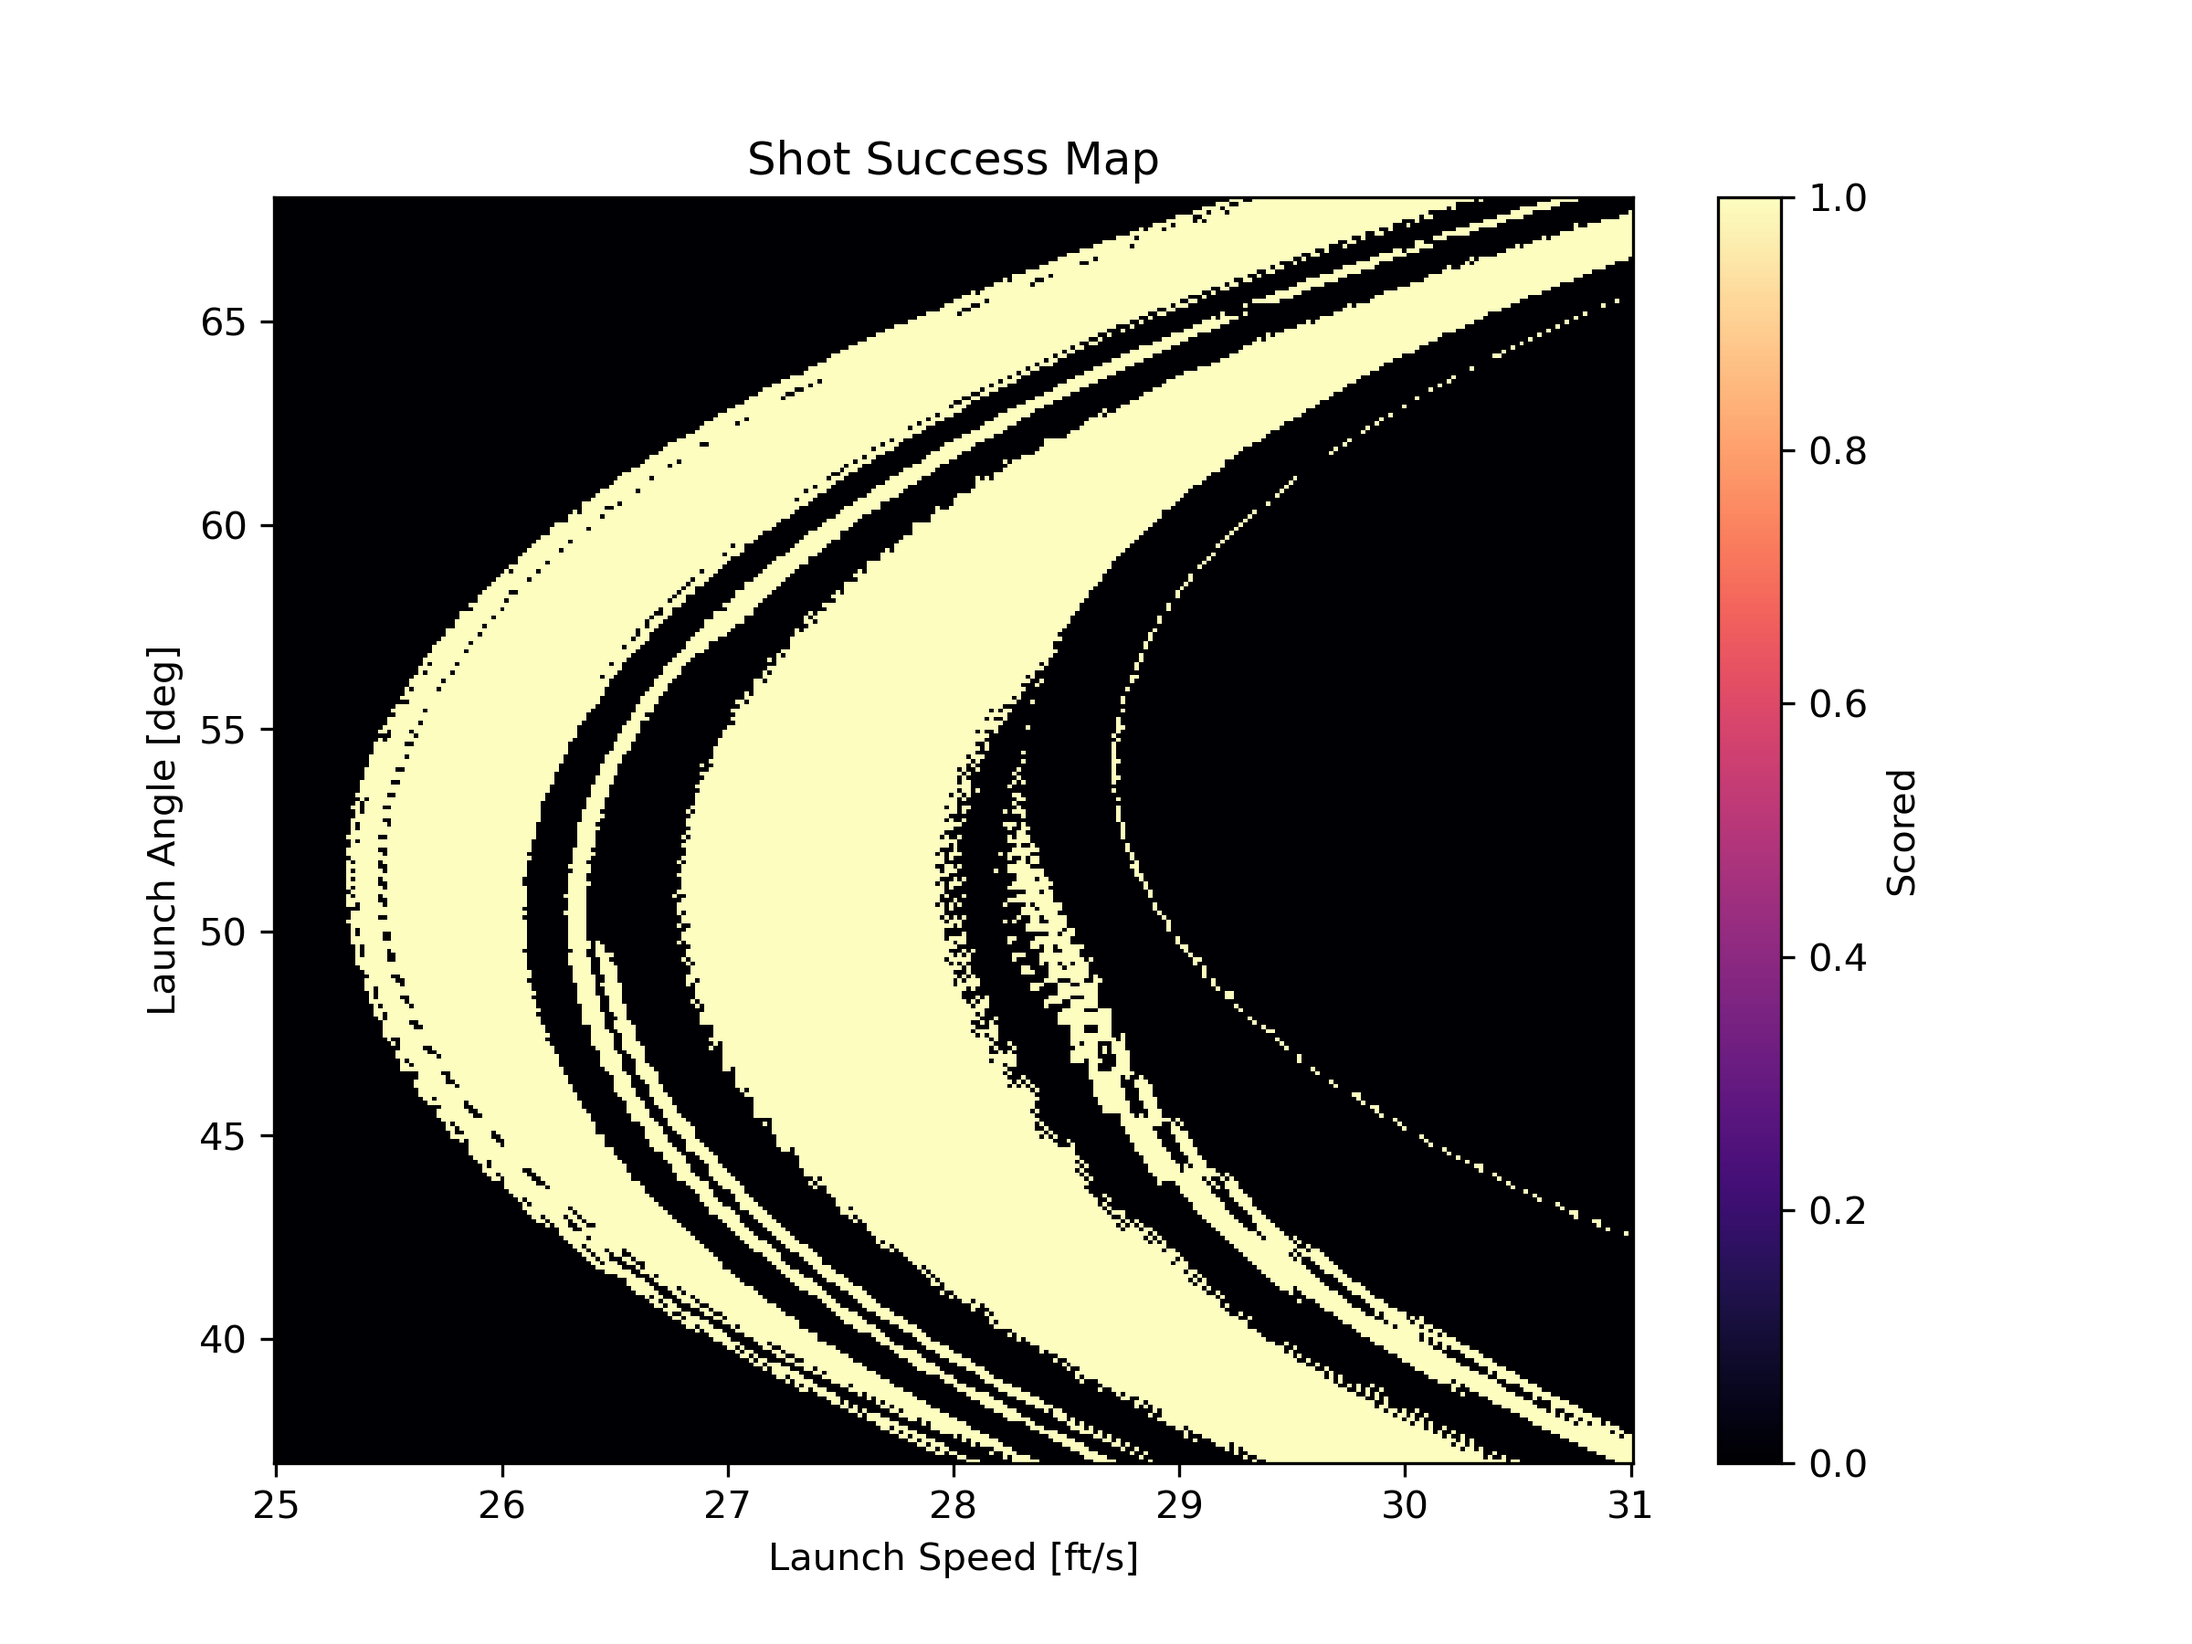
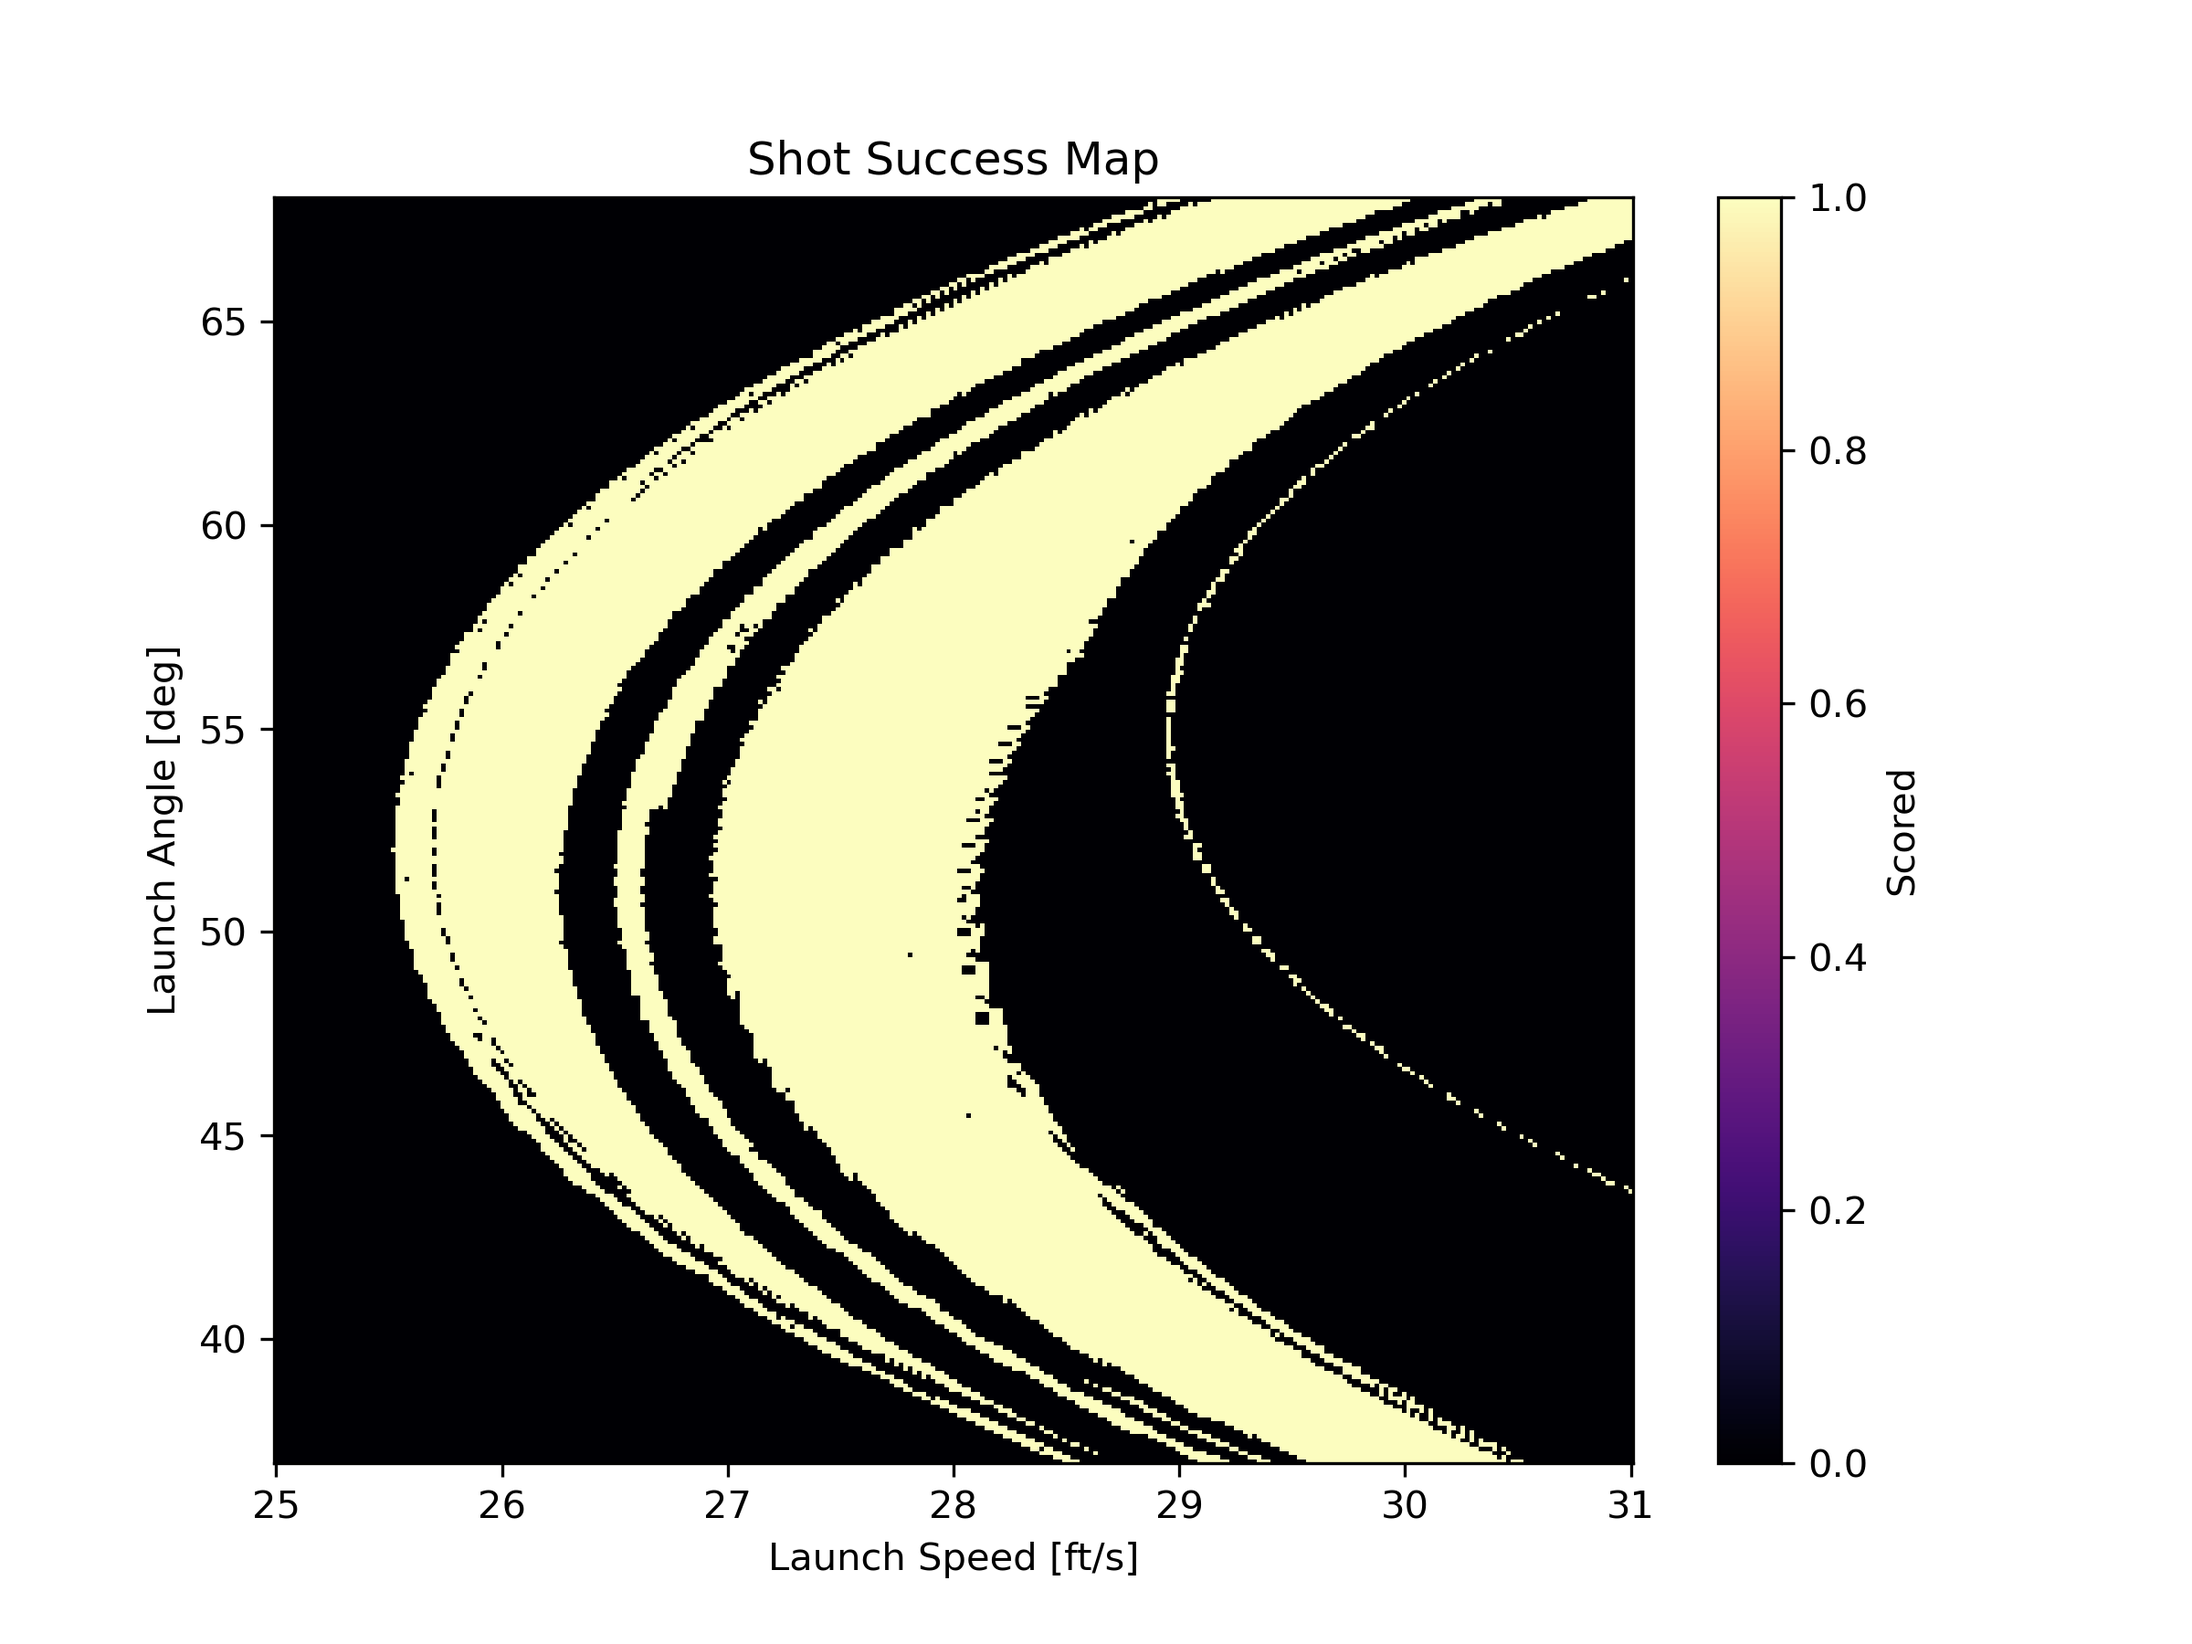
update plot and readme for better friction model

diff --git a/README.md b/README.md
@@ -62,23 +62,28 @@ python3 -m unittest discover tests
 The simulation computes the ball's trajectory by integrating the following forces:
 
 ### 1. Continuous Forces
-The total acceleration **a** is given by:
+The total acceleration $\mathbf{a}$ is given by:
 
 $$ \mathbf{a} = \mathbf{g}_{eff} + \frac{\mathbf{F}_d + \mathbf{F}_m}{m} $$
 
 *   **Gravity & Air Buoyancy**: $\mathbf{g}_{eff} = 0.985 \cdot \mathbf{g}$ (accounts for the upward buoyancy of the air).
-*   **Aerodynamic Drag**: $\mathbf{F}_d = -\frac{1}{2} C_D \rho A |\mathbf{v}| \mathbf{v}$
-    *   The drag coefficient $C_D$ transitions from 0.5 to 0.2 between $Re=10^5$ and $Re=2 \cdot 10^5$ (Drag Crisis).
-*   **Magnus Effect (Lift)**: $\mathbf{F}_m = \frac{1}{2} C_L \rho A R (\mathbf{\omega} \times \mathbf{v})$
-    *   $C_L$ is an affine function of the spin factor $Sp = \frac{\omega R}{|\mathbf{v}|}$.
+*   **Aerodynamic Drag**:
+$$ \mathbf{F}_d = -\frac{1}{2} C_D \rho A |\mathbf{v}| \mathbf{v} $$
+    The drag coefficient $C_D$ transitions from 0.5 to 0.2 between $Re=10^5$ and $Re=2 \cdot 10^5$ (Drag Crisis).
+*   **Magnus Effect (Lift)**:
+$$ \mathbf{F}_m = \frac{1}{2} C_L \rho A R (\mathbf{\omega} \times \mathbf{v}) $$
+    $C_L$ is an affine function of the spin factor $Sp = \frac{\omega R}{|\mathbf{v}|}$.
 
 ### 2. Collision Model
-Collisions are modeled as discrete impulse changes using **Velocity-Direction Masking**. A collision triggers only if the ball center is within the contact radius $R$ and moving into the surface ($\mathbf{v} \cdot \mathbf{n} < 0$).
+Collisions are modeled as discrete impulse changes using **Velocity-Direction Masking**. A collision triggers only if the ball center is within the contact radius $R$ and moving into the surface ($\mathbf{v}_{cm} \cdot \mathbf{n} < 0$).
 
 #### Impulse Components:
-*   **Normal Reflection**: $\Delta \mathbf{v}_n = -(1 + e) (\mathbf{v} \cdot \mathbf{n}) \mathbf{n}$
-*   **Tangential Friction**: $\Delta \mathbf{v}_t = -\min(\mu_f |\Delta \mathbf{v}_n|, |\mathbf{v}_{t,pt}|) \frac{\mathbf{v}_{t,pt}}{|\mathbf{v}_{t,pt}|}$
-    *   $\mathbf{v}_{t,pt}$ is the tangential velocity of the ball's **surface** at the contact point, including spin: $\mathbf{v}_{pt} = \mathbf{v} + \mathbf{\omega} \times (-R\mathbf{n})$.
+*   **Normal Reflection**:
+$$ \Delta \mathbf{v}_n = -(1 + e) (\mathbf{v}_{cm} \cdot \mathbf{n}) \mathbf{n} $$
+*   **Tangential Friction**:
+$$ \Delta \mathbf{v}_t = -\min(\mu_f |\Delta \mathbf{v}_n|, |\mathbf{v}_{t,pt}| \cdot f_{eff}) \frac{\mathbf{v}_{t,pt}}{|\mathbf{v}_{t,pt}|} $$
+    Where $f_{eff} = \frac{1}{1+1/\alpha}$ accounts for the effective mass of the sphere, and $\mathbf{v}_{t,pt}$ is the tangential velocity of the ball's **surface** at the contact point:
+$$ \mathbf{v}_{pt} = \mathbf{v}_{cm} + \mathbf{\omega} \times (-R\mathbf{n}) $$
 
 #### Angular Momentum Update:
 Friction generates a torque that changes the ball's spin:
